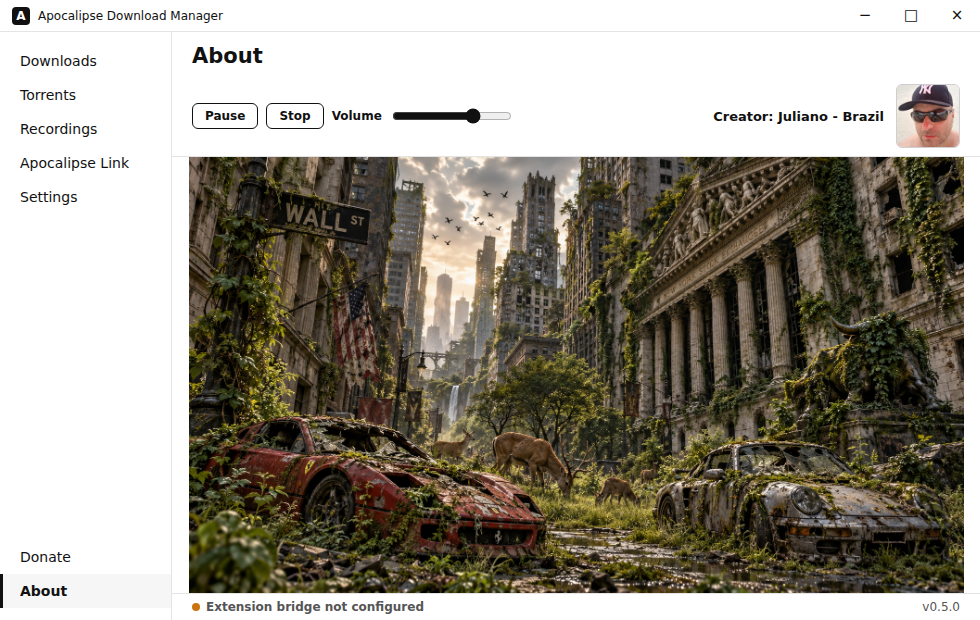
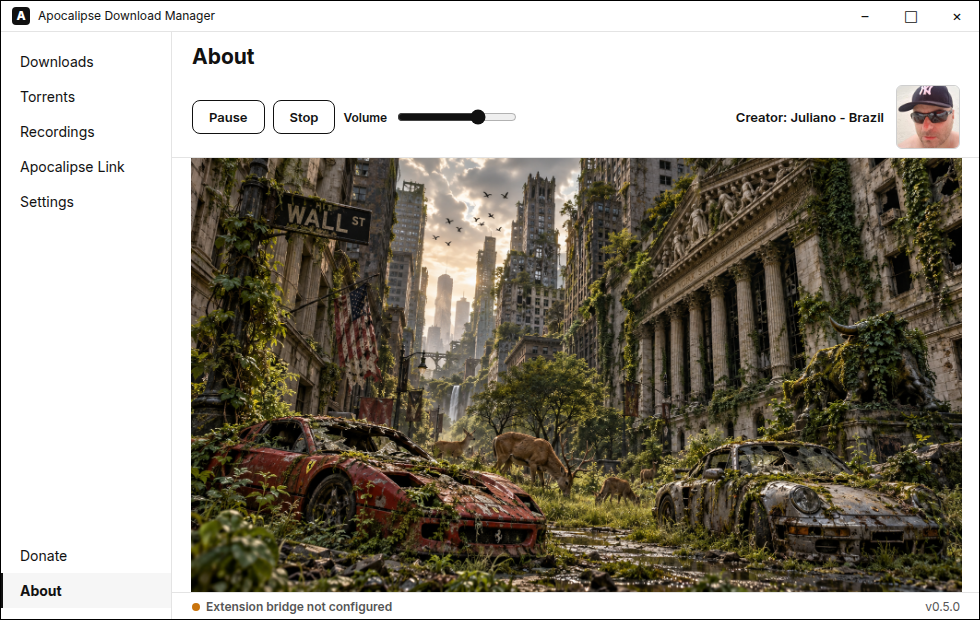
Release ADM 0.5.9: colours, Inter font, buttons, compressed diagnostic zip, YouTube cookies
Extension stays at 0.3.205 (signed XPI).

Claude-Session: https://claude.ai/code/session_019wxxZuXTwExmjcs1GQK3QW

diff --git a/CHANGELOG.md b/CHANGELOG.md
@@ -1,3 +1,19 @@
+# Apocalipse Download Manager 0.5.9 — Extensão 0.3.205
+
+## Português do Brasil
+
+Barras de progresso: pausado fica amarelo (erro vermelho, concluído verde). Fonte nova (Inter, embutida) e botões maiores e mais suaves, ícones das linhas em traço preto (lixeira e pasta). A janela "Remover selecionados" ganhou cartões grandes. O arquivo .zip de diagnóstico agora é comprimido com Deflate no nível máximo (cerca de 9 vezes menor). Colar um link do YouTube no ADM usa o navegador instalado para os cookies e repete sem cookies se eles não puderem ser lidos. Janela do Apocalipse Link corrigida e no menu lateral; abrir pela bandeja usa o tamanho do IDM.
+
+## English
+
+Progress bars: paused is yellow (failed red, completed green). New bundled Inter font, roomier softer buttons, monochrome row icons (trash and folder). The "Remove selected" dialog uses large option cards. The diagnostic .zip is now Deflate-compressed at the maximum level (about 9x smaller). Pasting a YouTube link into ADM uses the installed browser for cookies and retries without cookies when they cannot be read. Apocalipse Link window fixed and in the sidebar; opening from the tray uses the IDM size.
+
+## 简体中文
+
+进度条：暂停为黄色（失败为红色，完成为绿色）。新增内置 Inter 字体、更宽松柔和的按钮，以及单色行图标（垃圾桶和文件夹）。“移除所选”对话框改为大号选项卡片。诊断 .zip 现在使用最高级别 Deflate 压缩（体积约缩小 9 倍）。向 ADM 粘贴 YouTube 链接时使用已安装浏览器的 Cookie，无法读取时会不带 Cookie 重试。Apocalipse Link 窗口已修复并移至侧边栏；从托盘打开时使用 IDM 尺寸。
+
+---
+
 # Apocalipse Download Manager 0.5.8 — Extensão 0.3.205
 
 ## Português do Brasil

diff --git a/README.md b/README.md
@@ -44,7 +44,7 @@
 <p align="center"><sub>Real interface rendered with sample downloads. / Interface real com downloads de exemplo. / 真实界面，使用示例下载。</sub></p>
 
 > [!IMPORTANT]
-> **Current release: ADM 0.5.8 + browser extension 0.3.205.** New compact IDM-sized window (980×620): white background, black text, no themes; Downloads, Torrents, Recordings, Donate and About in the sidebar, everything else in tabs inside Settings; blue progress bars (red on failure, green when done). Previously: steadier extension connection (bridge no longer serialized), consistent language between app and extension, fixed extension ID on Chrome/Edge. Earlier fixes: HLS playlists without `.m3u8`, wrong-video downloads on multi-video pages, the Download button on YouTube Shorts and recording export, plus a TLS-impersonation retry for 403 blocks and signed tool-update verification (off until a key is configured). The Firefox XPI in the release is Mozilla-signed (extension 0.3.204).
+> **Current release: ADM 0.5.9 + browser extension 0.3.205.** New compact IDM-sized window (980×620): white background, black text, no themes; Downloads, Torrents, Recordings, Donate and About in the sidebar, everything else in tabs inside Settings; blue progress bars (red on failure, green when done). Previously: steadier extension connection (bridge no longer serialized), consistent language between app and extension, fixed extension ID on Chrome/Edge. Earlier fixes: HLS playlists without `.m3u8`, wrong-video downloads on multi-video pages, the Download button on YouTube Shorts and recording export, plus a TLS-impersonation retry for 403 blocks and signed tool-update verification (off until a key is configured). The Firefox XPI in the release is Mozilla-signed (extension 0.3.204).
 
 ## Download the current release
 

diff --git a/packaging/release-notes-v0.5.9.md b/packaging/release-notes-v0.5.9.md
@@ -1,0 +1,13 @@
+# Apocalipse Download Manager 0.5.9 — Extensão 0.3.205
+
+## Português do Brasil
+
+Barras de progresso: pausado fica amarelo (erro vermelho, concluído verde). Fonte nova (Inter, embutida) e botões maiores e mais suaves, ícones das linhas em traço preto (lixeira e pasta). A janela "Remover selecionados" ganhou cartões grandes. O arquivo .zip de diagnóstico agora é comprimido com Deflate no nível máximo (cerca de 9 vezes menor). Colar um link do YouTube no ADM usa o navegador instalado para os cookies e repete sem cookies se eles não puderem ser lidos. Janela do Apocalipse Link corrigida e no menu lateral; abrir pela bandeja usa o tamanho do IDM.
+
+## English
+
+Progress bars: paused is yellow (failed red, completed green). New bundled Inter font, roomier softer buttons, monochrome row icons (trash and folder). The "Remove selected" dialog uses large option cards. The diagnostic .zip is now Deflate-compressed at the maximum level (about 9x smaller). Pasting a YouTube link into ADM uses the installed browser for cookies and retries without cookies when they cannot be read. Apocalipse Link window fixed and in the sidebar; opening from the tray uses the IDM size.
+
+## 简体中文
+
+进度条：暂停为黄色（失败为红色，完成为绿色）。新增内置 Inter 字体、更宽松柔和的按钮，以及单色行图标（垃圾桶和文件夹）。“移除所选”对话框改为大号选项卡片。诊断 .zip 现在使用最高级别 Deflate 压缩（体积约缩小 9 倍）。向 ADM 粘贴 YouTube 链接时使用已安装浏览器的 Cookie，无法读取时会不带 Cookie 重试。Apocalipse Link 窗口已修复并移至侧边栏；从托盘打开时使用 IDM 尺寸。
